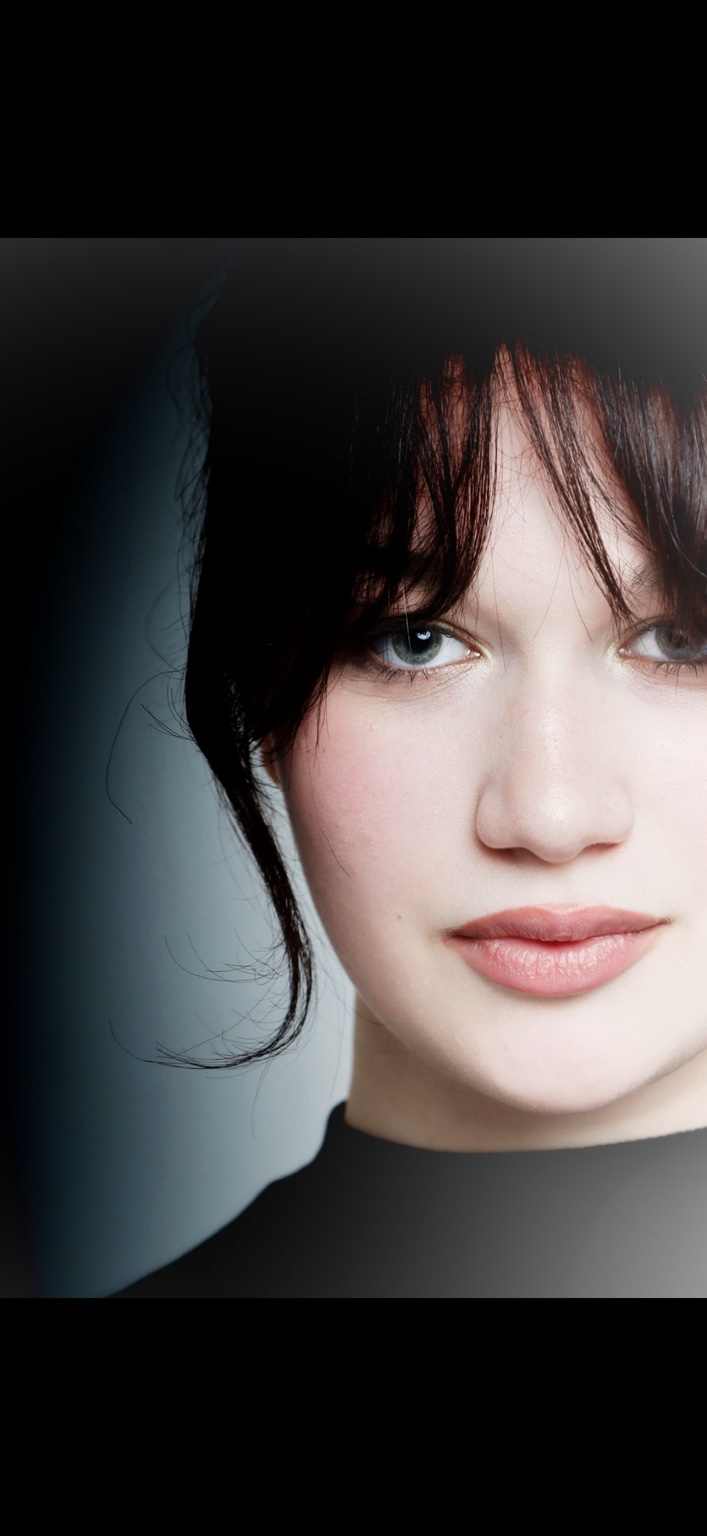
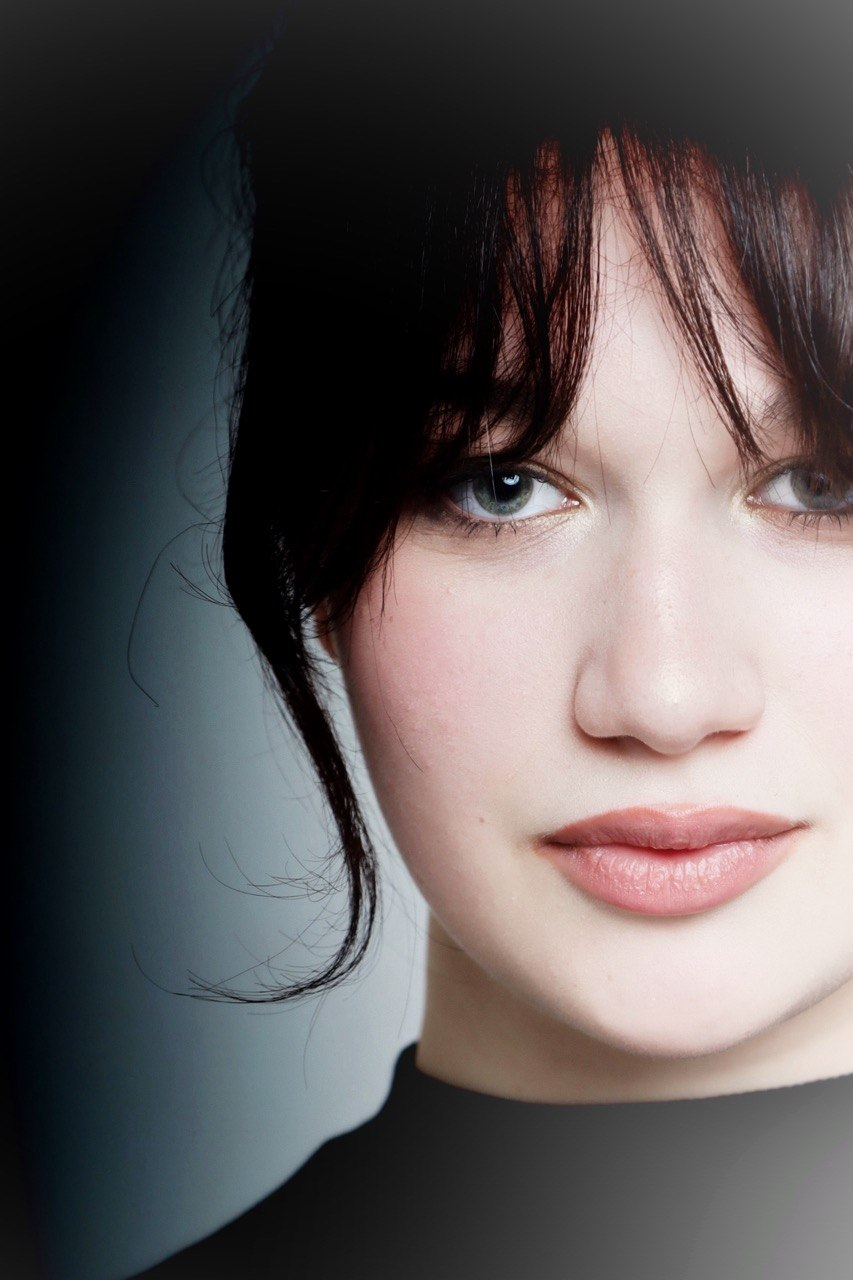
Perfect vertical axis alignment for I and K, sticky header, back to top button, and OpenGraph preview

diff --git a/index.html b/index.html
@@ -1,4 +1,20 @@
-<!doctype html><html lang="ru"><head><meta charset="utf-8"><meta name="viewport" content="width=device-width,initial-scale=1"><title>DI SKRI — фотограф</title><style>
+<!doctype html><html lang="ru"><head><meta charset="utf-8"><meta name="viewport" content="width=device-width,initial-scale=1"><meta name="description" content="Фотограф и режиссёр Диана Скрижалина (DI SKRI). Арт-портреты, стиль, режиссура и свет. Москва.">
+<!-- Open Graph / Facebook / Telegram / WhatsApp / VK -->
+<meta property="og:type" content="website">
+<meta property="og:url" content="https://diskri.site/">
+<meta property="og:title" content="DI SKRI — фотограф">
+<meta property="og:description" content="Фотограф и режиссёр Диана Скрижалина (DI SKRI). Арт-портреты, стиль, режиссура и свет. Москва.">
+<meta property="og:image" content="https://diskri.site/static/portrait.jpg">
+<!-- Twitter -->
+<meta name="twitter:card" content="summary_large_image">
+<meta name="twitter:url" content="https://diskri.site/">
+<meta name="twitter:title" content="DI SKRI — фотограф">
+<meta name="twitter:description" content="Фотограф и режиссёр Диана Скрижалина (DI SKRI). Арт-портреты, стиль, режиссура и свет. Москва.">
+<meta name="twitter:image" content="https://diskri.site/static/portrait.jpg">
+<link rel="preconnect" href="https://fonts.googleapis.com">
+<link rel="preconnect" href="https://fonts.gstatic.com" crossorigin>
+<link href="https://fonts.googleapis.com/css2?family=Onest:wght@400;500;700;800;900&display=swap" rel="stylesheet">
+<title>DI SKRI — фотограф</title><style>
 :root{--red:#e52b2f;--blue:#185cff;--black:#050505;--white:#f7f7f3;--pad:clamp(20px,4vw,64px)}*{box-sizing:border-box}html{scroll-behavior:smooth}body{margin:0;background:var(--black);color:var(--white);font-family:Onest,Arial,Helvetica,sans-serif;font-weight:500}a{color:inherit;text-decoration:none}button{font:inherit}.top{position:fixed;z-index:100;top:18px;left:var(--pad);right:var(--pad);display:flex;align-items:flex-start;justify-content:center;pointer-events:none}.nav{pointer-events:auto;display:flex;gap:6px;padding:6px;background:rgba(5,5,5,.92);border:1px solid rgba(255,255,255,.35);box-shadow:7px 7px 0 var(--red)}.nav a{padding:11px 18px;color:#fff;font-size:12px;font-weight:800;letter-spacing:.08em;text-transform:uppercase}.nav a:hover{background:#fff;color:#000}.socials{pointer-events:auto;position:fixed;right:var(--pad);top:18px;display:flex;flex-direction:column;gap:7px;transform:translateX(0)}.socials a{width:40px;height:40px;background:#fff;color:#000;border:1px solid #000;display:grid;place-items:center;font-size:11px;font-weight:900;box-shadow:4px 4px 0 var(--blue)}.socials a:hover{background:var(--blue);color:#fff}.hero{min-height:100vh;padding:130px var(--pad) 48px;background:var(--blue);display:flex;flex-direction:column;justify-content:space-between}.eyebrow{font-size:13px;font-weight:800;text-transform:uppercase}.hero h1{font-size:clamp(76px,18vw,270px);line-height:.78;letter-spacing:-.075em;margin:12vh 0 0;font-weight:900}.hero-bottom{display:flex;align-items:end;justify-content:space-between;gap:30px}.hero-role{font-size:clamp(28px,4vw,58px);font-weight:900;margin:0}.cta{display:inline-block;background:#fff;color:#000;padding:17px 22px;font-weight:900;text-transform:uppercase;font-size:12px;border:2px solid #000;box-shadow:7px 7px 0 var(--black)}.section{padding:clamp(70px,10vw,150px) var(--pad)}.intro{background:var(--white);color:#000}.intro-grid,.about-grid{display:grid;grid-template-columns:1.2fr .8fr;gap:8vw;align-items:start}.display{font-size:clamp(44px,7vw,105px);line-height:.9;letter-spacing:-.055em;font-weight:900;margin:0}.bodycopy{font-size:clamp(17px,1.5vw,22px);line-height:1.45}.work{background:#000;color:#fff}.work-head{display:flex;justify-content:space-between;gap:30px;align-items:end;margin-bottom:50px}.work h2,.about h2,.formats h2,.approach h2,.process h2,.contact h2{font-size:clamp(44px,7vw,100px);line-height:.88;letter-spacing:-.06em;margin:0;font-weight:900}.work-note{font-size:13px;text-transform:uppercase}.gallery{display:grid;grid-template-columns:repeat(2,minmax(0,1fr));gap:14px}.card{margin:0;background:#111;overflow:hidden;cursor:zoom-in}.card img{display:block;width:100%;height:auto;aspect-ratio:auto;object-fit:contain}.card:nth-child(3n) img{aspect-ratio:auto}.about{background:var(--white);color:#000}.about-portrait{background:#ddd;overflow:hidden;aspect-ratio:4/5}.about-portrait img{width:100%;height:100%;object-fit:cover;object-position:center 42%;display:block}.about-copy p{margin:0 0 22px}.formats{background:var(--red);color:#fff}.price-grid{display:grid;grid-template-columns:repeat(3,1fr);gap:14px;margin-top:55px}.price-card{padding:30px;min-height:560px;display:flex;flex-direction:column}.price-card:nth-child(1){background:var(--red);border:2px solid #fff}.price-card:nth-child(2){background:var(--blue)}.price-card:nth-child(3){background:#000}.price-card h3{font-size:30px;margin:0 0 18px;font-weight:900}.price{font-size:28px;font-weight:900;margin-bottom:35px}.price-card ul{padding-left:20px;line-height:1.55;margin:0}.price-card p{margin-top:auto;line-height:1.45}.approach{background:var(--blue);color:#fff}.approach-grid{display:grid;grid-template-columns:.9fr 1.1fr;gap:8vw}.approach-copy p{font-size:20px;line-height:1.45;margin:0 0 25px}.process{background:var(--white);color:#000}.steps{display:grid;grid-template-columns:repeat(4,1fr);margin-top:60px;border-top:2px solid #000}.step{padding:28px 20px 20px 0;border-right:2px solid #000}.step:last-child{border-right:0}.step span{font-size:12px;font-weight:900}.step h3{font-size:26px;margin:45px 0 14px}.step p{line-height:1.45}.contact{background:var(--red);color:#fff}.contact-grid{display:grid;grid-template-columns:1fr .8fr;gap:8vw;margin-top:50px}.contact-copy p{font-size:20px;line-height:1.45}.contact-links{display:grid;gap:9px}.contact-links a{background:#000;color:#fff;padding:17px 20px;border:1px solid #000;font-weight:800;display:flex;justify-content:space-between}.contact-links a:hover{background:#fff;color:#000}.footer{background:#fff;color:#000;padding:22px var(--pad);display:flex;justify-content:space-between;font-size:11px;text-transform:uppercase}.lightbox{position:fixed;inset:0;background:rgba(0,0,0,.94);z-index:200;display:none;align-items:center;justify-content:center;padding:30px}.lightbox.open{display:flex}.lightbox img{max-width:92vw;max-height:90vh;object-fit:contain}.lb-btn{position:absolute;background:#fff;color:#000;border:0;width:46px;height:46px;font-size:30px;cursor:pointer}.close{top:20px;right:20px}.prev{left:20px}.next{right:20px}.counter{position:absolute;bottom:18px;color:#fff;font-size:12px}
 @media(max-width:800px){.top{left:12px;right:65px;top:12px}.nav{width:100%;justify-content:space-between}.nav a{padding:9px 8px;font-size:9px}.socials{right:12px;top:12px}.socials a{width:34px;height:34px;font-size:9px}.hero{padding:100px 20px 28px}.hero h1{font-size:22vw}.hero-bottom{align-items:start;flex-direction:column}.section{padding:70px 20px}.intro-grid,.about-grid,.approach-grid,.contact-grid{grid-template-columns:1fr;gap:40px}.gallery{grid-template-columns:1fr}.price-grid,.steps{grid-template-columns:1fr}.price-card{min-height:auto}.step{border-right:0;border-bottom:2px solid #000;padding-bottom:25px}.footer{padding:18px 20px;gap:15px;flex-direction:column}}
 </style><style id="hero-scale-final">
@@ -38,14 +54,93 @@
 .socials{z-index:110!important;}
 .top{z-index:120!important;}
 </style>
-</head><body>
+<style id="hero-brand-align">
+.hero-brand {
+  display: inline-grid !important;
+  grid-template-columns: max-content max-content !important;
+  line-height: 0.70 !important;
+  letter-spacing: -0.08em !important;
+  margin: 0 !important;
+  width: auto !important;
+  font-size: clamp(64px, 18vw, 230px) !important;
+  text-shadow: 0 4px 0 rgba(0,0,0,.08) !important;
+}
+.brand-cell {
+  display: block !important;
+  white-space: nowrap !important;
+}
+.brand-d, .brand-s {
+  justify-self: end !important;
+  text-align: right !important;
+}
+.brand-i { justify-self: start !important; text-align: left !important; transform: translateX(-0.008em); }
+.brand-kri {
+  justify-self: start !important;
+  text-align: left !important;
+}
+
+/* Sticky Header Enhancement */
+.top {
+  position: fixed !important;
+  z-index: 1000 !important;
+  transition: transform 0.25s ease, top 0.25s ease !important;
+}
+.nav {
+  backdrop-filter: blur(12px) !important;
+  -webkit-backdrop-filter: blur(12px) !important;
+  box-shadow: 6px 6px 0 var(--red) !important;
+}
+.socials {
+  z-index: 1000 !important;
+}
+
+/* Back to Top Button */
+.back-to-top {
+  position: fixed;
+  bottom: 24px;
+  right: var(--pad);
+  width: 44px;
+  height: 44px;
+  background: #fff;
+  color: #000;
+  border: 2px solid #000;
+  box-shadow: 4px 4px 0 var(--red);
+  font-size: 22px;
+  font-weight: 900;
+  display: flex;
+  align-items: center;
+  justify-content: center;
+  cursor: pointer;
+  z-index: 900;
+  opacity: 0;
+  visibility: hidden;
+  transform: translateY(12px);
+  transition: opacity 0.25s ease, transform 0.25s ease, background 0.2s, color 0.2s;
+}
+.back-to-top.visible {
+  opacity: 1;
+  visibility: visible;
+  transform: translateY(0);
+}
+.back-to-top:hover {
+  background: var(--red);
+  color: #fff;
+}
+@media(max-width:800px) {
+  .back-to-top {
+    bottom: 18px;
+    right: 18px;
+    width: 38px;
+    height: 38px;
+    font-size: 18px;
+  }
+}
+</style></head><body>
 <header class="top"><nav class="nav"><a href="#about">Обо мне</a><a href="#price">Price</a><a href="#work">Портфолио</a><a href="#contact">Контакты</a></nav></header>
 <div class="socials"><a href="https://www.instagram.com/diskri.ph/" target="_blank" aria-label="Instagram">IG</a><a href="https://t.me/skrizhalina" target="_blank" aria-label="Telegram">TG</a><a href="https://www.tiktok.com/@skrizhalina" target="_blank" aria-label="TikTok">TT</a><a href="mailto:diana.skrizhalina@icloud.com" aria-label="Email">@</a></div>
-<section class="hero"><div class="eyebrow">Привет, это мой сайт.</div><h1 style="display: grid; grid-template-columns: max-content max-content;">
-    <span style="text-align: right;">D</span>
-    <span style="margin-left: -0.075em;">I</span>
-    <span style="text-align: right;">S</span>
-    <span style="margin-left: -0.075em;">KRI</span>
+<section class="hero"><div class="eyebrow">Привет, это мой сайт.</div><h1 class="hero-brand" aria-label="DI SKRI">
+    <span class="brand-cell brand-d">D</span><span class="brand-cell brand-i">I</span>
+    <span class="brand-cell brand-s">S</span><span class="brand-cell brand-kri">KRI</span>
 </h1><div class="hero-bottom"><p class="hero-role">Фотограф.</p><a class="cta" href="#contact">Записаться на съёмку</a></div></section>
 <section class="section intro"><div class="intro-grid"><h2 class="display">МНЕ ВАЖЕН<br>ОБРАЗ.<br>ЧЕЛОВЕК ТОЖЕ.</h2><div class="bodycopy"><p>Я могу придумать съёмку с нуля или собрать её из ваших идей, референсов и настроения.</p><p>Я подстраиваю стилистику под человека, задачу и настроение съёмки. Мне важно, чтобы вам было комфортно в том образе, который мы придумали.</p></div></div></section>
 <section class="section work" id="work"><div class="work-head"><h2>АРТ-ПОРТРЕТЫ</h2><div class="work-note">/ свет, образ, постановка и обработка</div></div><div class="gallery">
@@ -138,4 +233,4 @@ document.addEventListener('DOMContentLoaded', function() {
 <section class="section contact" id="contact"><h2>ДАВАЙТЕ ПРИДУМАЕМ<br>СЪЁМКУ.</h2><div class="contact-grid"><div class="contact-copy"><p>Можно написать мне с идеей, референсом или просто с желанием сделать хорошие фотографии.</p><p>Расскажите, чего хочется. Дальше разберёмся вместе.</p></div><div class="contact-links"><a href="https://www.instagram.com/diskri.ph/" target="_blank">Instagram <span>↗</span></a><a href="https://t.me/skrizhalina" target="_blank">Telegram <span>↗</span></a><a href="https://t.me/dissskri" target="_blank">Портфолио в Telegram <span>↗</span></a><a href="https://www.tiktok.com/@skrizhalina" target="_blank">TikTok <span>↗</span></a><a href="mailto:diana.skrizhalina@icloud.com">diana.skrizhalina@icloud.com <span>↗</span></a></div></div></section>
 <footer class="footer"><span>DI SKRI</span><span>Фотограф · Москва</span></footer>
 <div class="lightbox" id="lightbox"><button class="lb-btn close" aria-label="Закрыть">×</button><button class="lb-btn prev" aria-label="Предыдущая">‹</button><img id="lbimg" alt=""><button class="lb-btn next" aria-label="Следующая">›</button><div class="counter" id="counter"></div></div>
-<script>const cards=[...document.querySelectorAll('.card img')],lb=document.getElementById('lightbox'),lbimg=document.getElementById('lbimg'),counter=document.getElementById('counter');let n=0;function show(i){n=(i+cards.length)%cards.length;lbimg.src=cards[n].src;counter.textContent=(n+1)+' / '+cards.length;lb.classList.add('open')}cards.forEach((im,i)=>im.parentElement.addEventListener('click',()=>show(i)));document.querySelector('.close').onclick=()=>lb.classList.remove('open');document.querySelector('.prev').onclick=()=>show(n-1);document.querySelector('.next').onclick=()=>show(n+1);lb.addEventListener('click',e=>{if(e.target===lb)lb.classList.remove('open')});document.addEventListener('keydown',e=>{if(!lb.classList.contains('open'))return;if(e.key==='Escape')lb.classList.remove('open');if(e.key==='ArrowLeft')show(n-1);if(e.key==='ArrowRight')show(n+1)});</script></body></html>
+<script>const cards=[...document.querySelectorAll('.card img')],lb=document.getElementById('lightbox'),lbimg=document.getElementById('lbimg'),counter=document.getElementById('counter');let n=0;function show(i){n=(i+cards.length)%cards.length;lbimg.src=cards[n].src;counter.textContent=(n+1)+' / '+cards.length;lb.classList.add('open')}cards.forEach((im,i)=>im.parentElement.addEventListener('click',()=>show(i)));document.querySelector('.close').onclick=()=>lb.classList.remove('open');document.querySelector('.prev').onclick=()=>show(n-1);document.querySelector('.next').onclick=()=>show(n+1);lb.addEventListener('click',e=>{if(e.target===lb)lb.classList.remove('open')});document.addEventListener('keydown',e=>{if(!lb.classList.contains('open'))return;if(e.key==='Escape')lb.classList.remove('open');if(e.key==='ArrowLeft')show(n-1);if(e.key==='ArrowRight')show(n+1)});</script><button id="backToTop" class="back-to-top" aria-label="Наверх" title="Наверх">↑</button></body></html>
